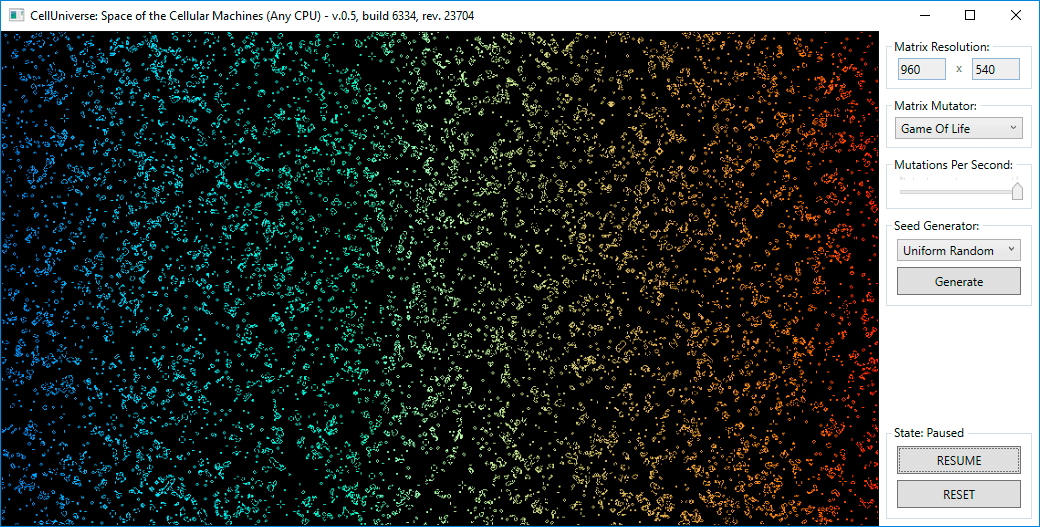
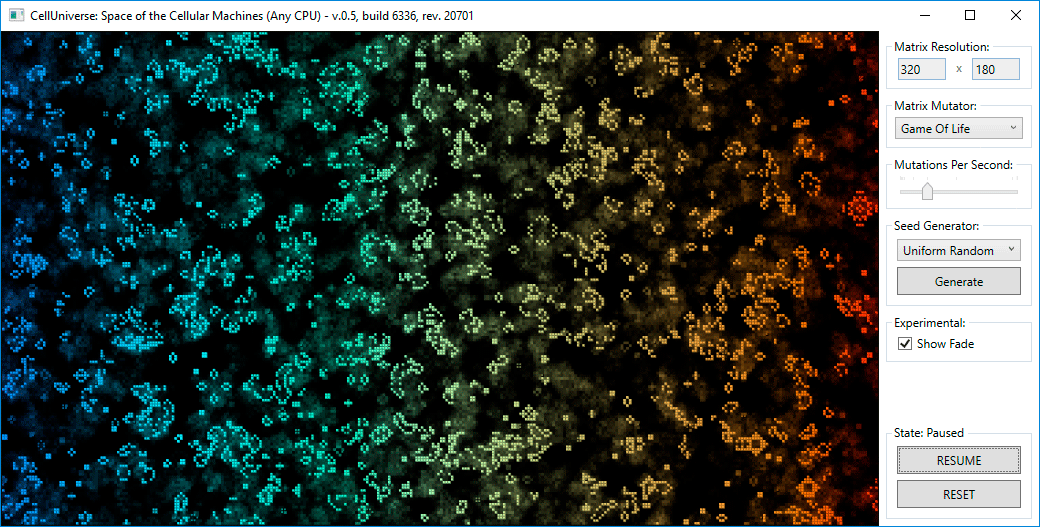
#17 experimental: Fade impl. 256 layers max on 1920x1080 [64 layers by default]

diff --git a/Application/ASD.CellUniverse/Shell.xaml b/Application/ASD.CellUniverse/Shell.xaml
@@ -33,7 +33,7 @@
                 Source="{Binding Facade.Matrix}"
                 Foreground="{StaticResource NearStarBrush}"
                 RenderOptions.BitmapScalingMode="{Binding SelectedScalingMode}"
-                ShowFade="False"/>
+                ShowFade="True"/>
         </Border>
         <Grid
             Grid.Column="1"

diff --git a/Application/ASD.CellUniverse.Resources/Controls/MatrixLED.cs b/Application/ASD.CellUniverse.Resources/Controls/MatrixLED.cs
@@ -1,22 +1,25 @@
 using System;
 using System.Collections.Generic;
 using System.Linq;
+using System.Threading.Tasks;
 using System.Windows;
 using System.Windows.Controls;
 using System.Windows.Documents;
 using System.Windows.Media;
-using System.Windows.Media.Animation;
 using System.Windows.Media.Imaging;
 
 namespace ASD.CellUniverse.Resources.Controls {
-
+    using System.Windows.Media.Animation;
     using Helpers;
 
     public class MatrixLED : FrameworkElement {
 
         private int cellSize;
         private Size contentSize;
+        private Fade fade = new Fade(64);
+
         private WriteableBitmap mask;
+        private WriteableBitmap fadeMask;
 
         public uint[,] Source { get => (uint[,])GetValue(SourceProperty); set => SetValue(SourceProperty, value); }
 
@@ -38,7 +41,7 @@ namespace ASD.CellUniverse.Resources.Controls {
 
         public static readonly DependencyProperty ShowFadeProperty = DependencyProperty.Register(nameof(
             ShowFade), typeof(bool), typeof(MatrixLED), new FrameworkPropertyMetadata(
-                false));
+                false, OnShowFadeChanged));
 
         static MatrixLED() => StyleProperty.OverrideMetadata(typeof(MatrixLED), new FrameworkPropertyMetadata(CreateStyle()));
 
@@ -46,6 +49,15 @@ namespace ASD.CellUniverse.Resources.Controls {
             var style = new Style(typeof(MatrixLED), null);
             style.Setters.Add(new Setter(FlowDirectionProperty, FlowDirection.LeftToRight));
             style.Seal(); return style;
+        }
+
+        private static void OnShowFadeChanged(DependencyObject d, DependencyPropertyChangedEventArgs e) {
+            if ((bool)e.NewValue) {
+                (d as MatrixLED).fade = new Fade(64);
+            }
+            else {
+                (d as MatrixLED).fade = null;
+            }
         }
 
         protected override Size MeasureOverride(Size constraint) {
@@ -66,29 +78,41 @@ namespace ASD.CellUniverse.Resources.Controls {
             return MeasureArrangeHelper.ComputeSize(arrangeSize, contentSize);
         }
 
-        private FadeHelper fh;
+
+        
 
         protected override void OnRender(DrawingContext dc) {
 
-            RepaintLedsMask();
-
             dc.DrawRectangle(Background, null, new Rect(new Point(), RenderSize));
 
-            // bad - code of fade using =)
             if (ShowFade) {
-                if (fh == null) {
-                    fh = new FadeHelper(1000, 60, Foreground, RenderSize);
-                }
-                if (fh.RenderSize != RenderSize) {
-                    fh.RenderSize = RenderSize;
-                }
 
-                fh.Redraw(dc);
-                fh.AddImage(mask.Clone());
-            }
+                fade.Add(Source);
+                RepaintFadeMask();
+
+                //dc.PushOpacity(0.0, new DoubleAnimation(1.0, 0.0, TimeSpan.FromMilliseconds(1000)).CreateClock());
+                dc.PushOpacityMask(new ImageBrush(fadeMask));
+                dc.DrawRectangle(Foreground, null, new Rect(new Point(), RenderSize));
+                dc.Pop();
+                //dc.Pop();
+            }            
+
+            RepaintLedsMask();
 
             dc.PushOpacityMask(new ImageBrush(mask));
             dc.DrawRectangle(Foreground, null, new Rect(new Point(), RenderSize));
+
+        }
+
+        private void RepaintFadeMask() {
+            fadeMask = BitmapHelper.Valid(fadeMask, contentSize);
+            if (fade != null && fade.Length > 0) {
+                using (var context = new WriteableContext(fadeMask)) {
+
+                    if (cellSize == 1) { context.WritePixels(fade); }
+                    else { context.WriteCells(fade, cellSize); }
+                }
+            }
         }
 
         private void RepaintLedsMask() {
@@ -102,54 +126,69 @@ namespace ASD.CellUniverse.Resources.Controls {
             }
         }
 
-        // bad-impl.fade
-        private class FadeHelper {
+        private class Fade {
 
+            private Queue<uint[,]> history;
             private int historySize;
-            private Brush brush;
-            public Size RenderSize { get; set; }
 
+            private uint[,] data;
+            public int Length => data.Length;
 
-            private TimeSpan time;
-            private Queue<ImageSource> bitmaps;
+            public static implicit operator uint[,](Fade fade) => fade.data;
 
-            private DoubleAnimation fadeAnimation;
+            public Fade(int historySize) {
+                this.historySize = historySize > 0 ? historySize : 1;
+                history = new Queue<uint[,]>(historySize);
+                data = new uint[1, 1];
+            }
 
-            public void AddImage(ImageSource image) {
-                bitmaps.Enqueue(image);
-                if (bitmaps.Count > historySize) {
-                    bitmaps.Dequeue();
+            public void Add(uint[,] source) {
+                if (source == null || source.Length < 1) {
+                    Clear();
+                    return;
+                }
+                if (history.Count > 0 &&
+                    (history.First().GetLength(0) != source.GetLength(0) ||
+                    history.First().GetLength(1) != source.GetLength(1))) {
+                    Clear();
+                }
+                history.Enqueue(source);
+
+                while (history.Count > historySize) {
+                    history.Dequeue();
+                }
+                if (history.Count > 0) {
+                    data = Merge(history);
                 }
             }
 
-            public void Redraw(DrawingContext dc) {
-
-                dc.PushOpacity(0.0, fadeAnimation.CreateClock());
-
-                for (var i = 0; i < bitmaps.Count; ++i) {
-                    dc.PushOpacityMask(new ImageBrush(bitmaps.ElementAt(i)));
-                    dc.PushOpacity((1.0 / historySize)/* * (i + 1)*/);
-
-                    dc.DrawRectangle(brush, null, new Rect(new Point(), RenderSize));
-
-                    dc.Pop();
-                    dc.Pop();
-                }
-                dc.Pop();
+            public void Clear() {
+                history = new Queue<uint[,]>(historySize);
+                data = new uint[1, 1];
             }
 
-            public FadeHelper(int durationMilliseconds, int historySize, Brush brush, Size renderSize) {
+            private uint[,] Merge(IEnumerable<uint[,]> layers) {
 
-                this.historySize = historySize;
-                this.brush = brush;
-                this.RenderSize = renderSize;
+                var sumAlpha = new uint[layers.First().GetLength(0), layers.First().GetLength(1)];
 
-                // ----
+                Parallel.ForEach(layers, (layer) => {
+                    for (var y = 0; y < layer.GetLength(1); ++y) {
+                        for (var x = 0; x < layer.GetLength(0); ++x) {
+                            sumAlpha[x, y] += (layer[x, y] >> 24);
+                        }
+                    }
+                });
 
-                bitmaps = new Queue<ImageSource>(historySize);
 
-                time = TimeSpan.FromMilliseconds(durationMilliseconds);
-                fadeAnimation = new DoubleAnimation(1.0, 0.0, time);
+                var alpha = new uint[sumAlpha.GetLength(0), sumAlpha.GetLength(1)];
+
+                for (var y = 0; y < sumAlpha.GetLength(1); ++y) {
+                    for (var x = 0; x < sumAlpha.GetLength(0); ++x) {
+                        alpha[x, y] = (sumAlpha[x, y] / (uint)historySize) << 24;
+                    }
+                }
+
+                return alpha;
             }
         }
     }

diff --git a/Application/ASD.CellUniverse.Infrastructure/Services/ApplicationFacade.cs b/Application/ASD.CellUniverse.Infrastructure/Services/ApplicationFacade.cs
@@ -30,7 +30,7 @@ namespace ASD.CellUniverse.Infrastructure.Services {
         }
 
         public int GenerationWidth {
-            get => matrix.GetLength(0);
+            get => generationWidth;
             set {
                 if (matrixReadyToChange) {
                     Set(ref generationWidth, ValidWidth(value));
@@ -40,7 +40,7 @@ namespace ASD.CellUniverse.Infrastructure.Services {
         }
 
         public int GenerationHeight {
-            get => matrix.GetLength(1);
+            get => generationHeight;
             set {
                 if (matrixReadyToChange) {
                     Set(ref generationHeight, ValidHeight(value));
@@ -115,8 +115,9 @@ namespace ASD.CellUniverse.Infrastructure.Services {
 
         private Task OnStop() { // tmp
             fpsGenerator.Stop();
+            Matrix = null;
             var resultTask = new Task(() => {
-                ChangeResolution(matrix.GetLength(0), matrix.GetLength(1));
+                ChangeResolution(GenerationWidth, GenerationHeight);
             });
             resultTask.Start();
             return resultTask;

diff --git a/Application/ASD.CellUniverse.Infrastructure/Services/MPSGenerationService.cs b/Application/ASD.CellUniverse.Infrastructure/Services/MPSGenerationService.cs
@@ -28,7 +28,7 @@ namespace ASD.CellUniverse.Infrastructure.Services {
             fpsCollection = new DoubleCollection { 1.0, 2.0, 3.0, 5.0, 15.0, 30.0, 60.0, 120.0, 125.0 };
             timer = new DispatcherTimer();
             timer.Tick += (s, e) => NextFrameTime?.Invoke();
-            MPS = fpsCollection.TakeWhile(f => f < 120.0).Last();
+            MPS = fpsCollection.TakeWhile(f => f < 60.0).Last();
         }
 
         private double ValidFps(double fps) => fps < MinFPS ? MinFPS : fps > MaxFPS ? MaxFPS : fps;
